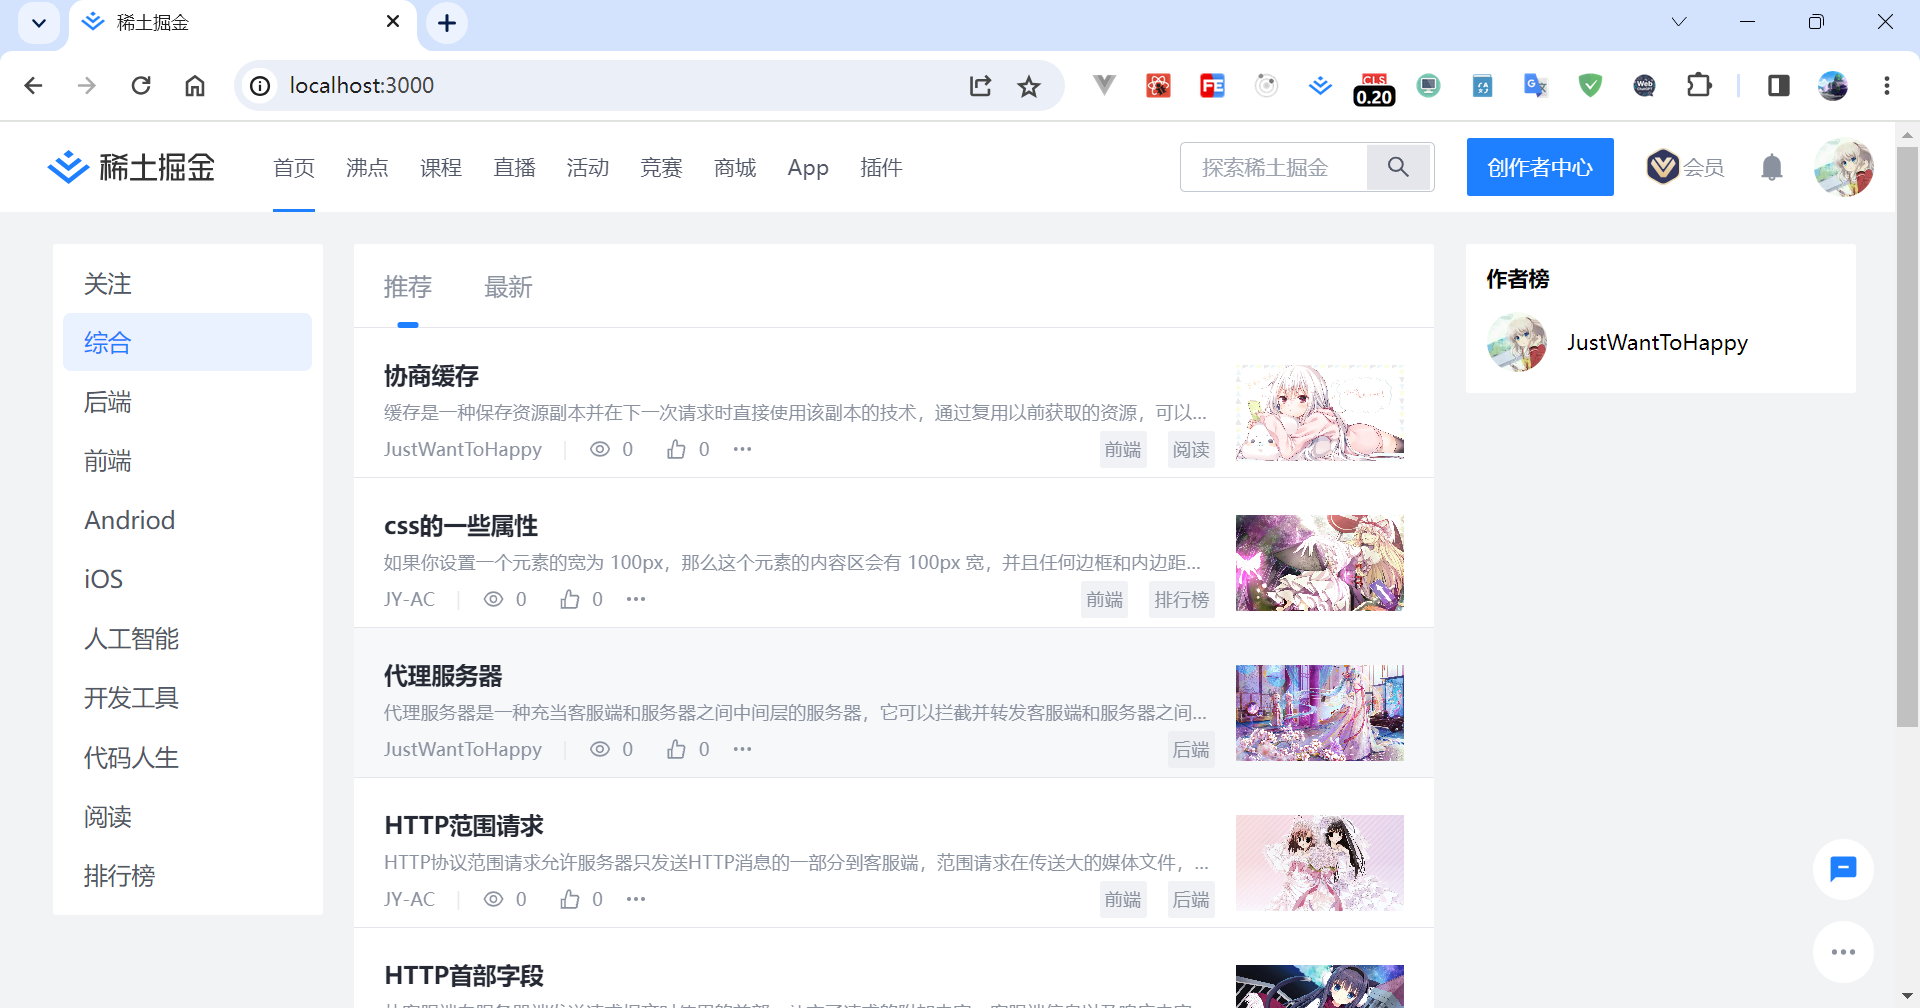
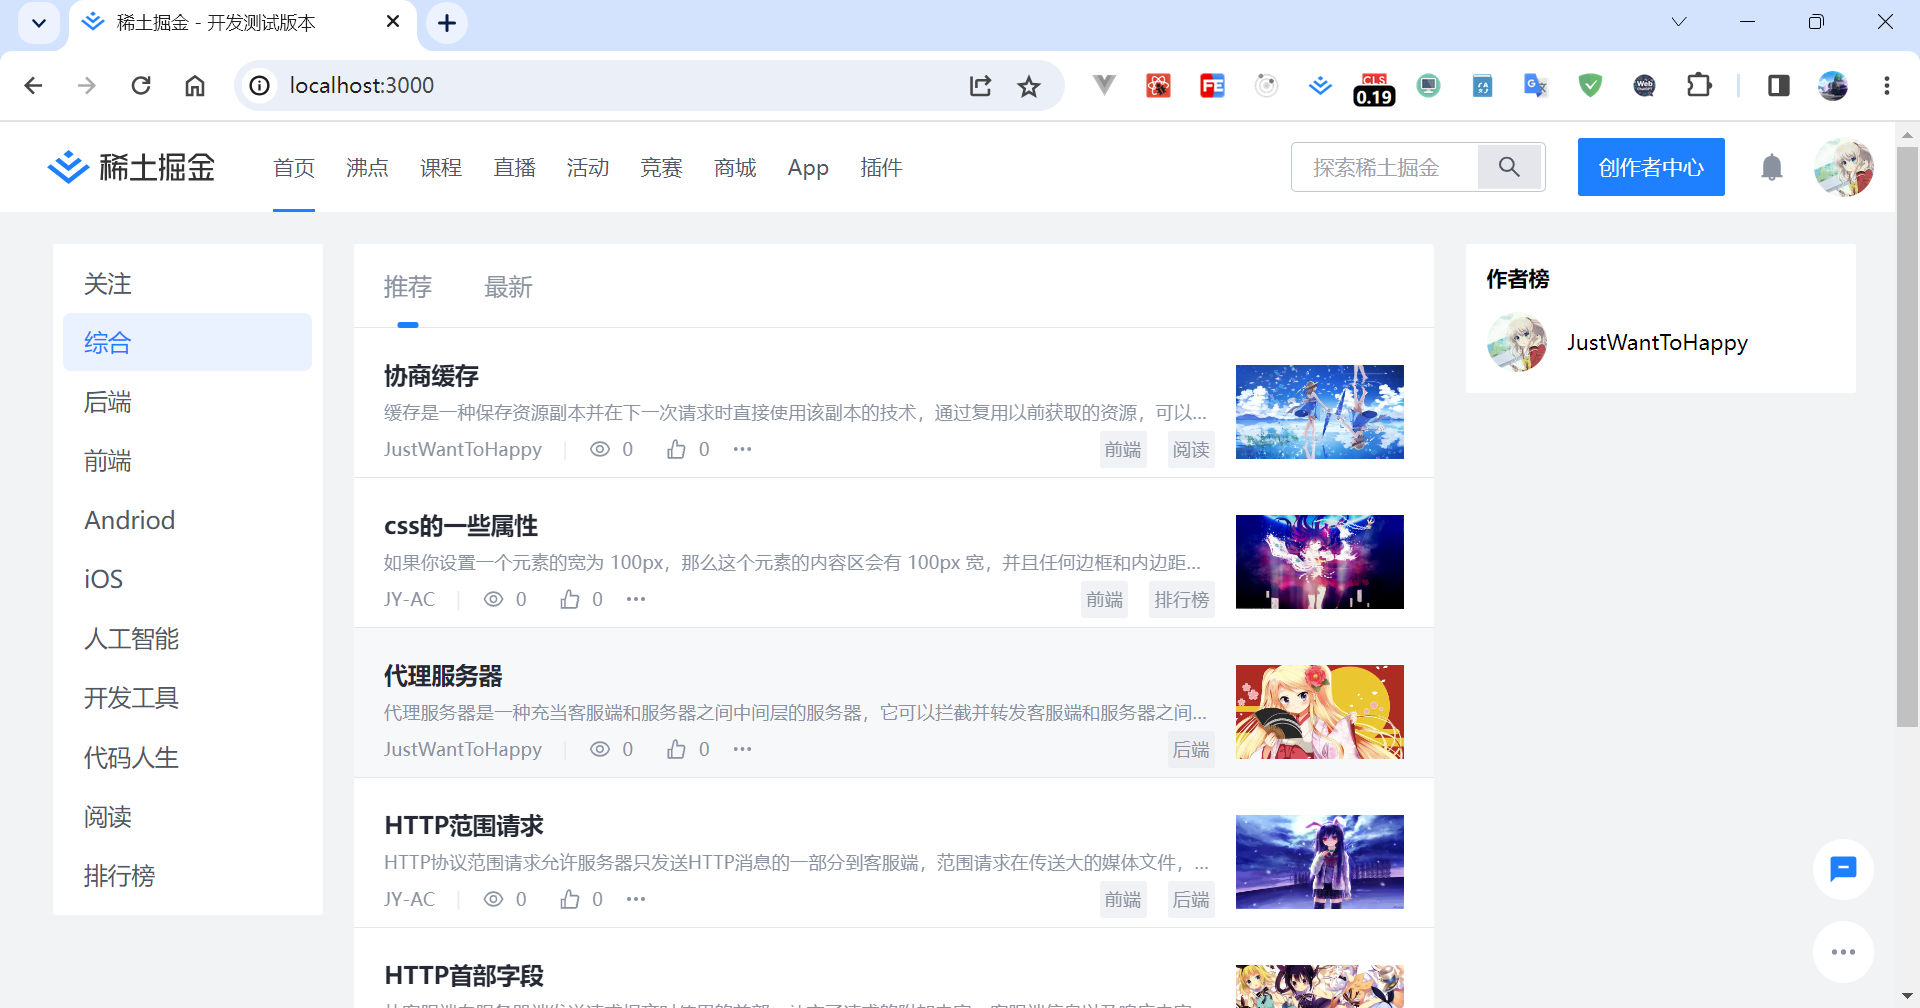
fix 修复一些意外

diff --git a/src/components/Article.tsx b/src/components/Article.tsx
@@ -4,15 +4,15 @@ import dayjs from 'dayjs'
 import { AiOutlineEye } from 'react-icons/ai'
 import type { CatelogueType } from '@/types'
 import { generateCatelogue, isHeadingEle } from '@/utils'
-import type { Article as ArticleType } from 'prisma/prisma-client'
+import type { Article as ArticleType, User } from 'prisma/prisma-client'
 
-type Props = ArticleType & {
+type Props = ArticleType & { user: User | null } & {
   getCatelogue: (catelogue: CatelogueType[], container: HTMLDivElement) => void
 }
 
-const Article: React.FC<Props> = ({ title, createdAt, content, getCatelogue }) => {
+const Article: React.FC<Props> = ({ title, createdAt, content, getCatelogue, readCount, user }) => {
   const markdownRef = React.useRef<HTMLDivElement>(null)
-
+  const dataStr = dayjs(createdAt).format('YYYY MM-DD HH:mm:ss')
   React.useEffect(() => {
     if (markdownRef.current) {
       const catelogue: CatelogueType[] = []
@@ -39,12 +39,14 @@ const Article: React.FC<Props> = ({ title, createdAt, content, getCatelogue }) =
           {title}
         </h1>
         <div className='flex  gap-x-4 text-juejin-font-3 items-center'>
-          <Link href='/' className='text-juejin-font-2 hover:text-juejin-brand-2-hover'>JustWantToHappy</Link>
-          <time dateTime='2023-08-19T02:08:29.000Z' title='2023-08-19T02:08:29.000Z'>
-            2023-08-19 10:08
+          <Link href='/' className='text-juejin-font-2 hover:text-juejin-brand-2-hover'>
+            {user?.name}
+          </Link>
+          <time dateTime={dataStr} title={dataStr}>
+            {dataStr}
           </time>
           <AiOutlineEye />
-          <span>22353</span>
+          <span>{readCount}</span>
           <div className='hidden md:flex '>
             <small>&emsp;|&emsp;</small>
             <span className='hidden md:inline'>

diff --git a/src/components/Header.tsx b/src/components/Header.tsx
@@ -6,7 +6,6 @@ import useSwr, { Fetcher } from 'swr'
 import { Get } from '@/utils'
 import { useRouter } from 'next/router'
 import InputSearch from './InputSearch'
-import VipSvg from '@/assets/img/vip.svg'
 import { useSession, signOut } from 'next-auth/react'
 import JuejinSvg from '../../public/juejin.svg'
 import { headerStore, loginModal } from '@/store'
@@ -14,7 +13,7 @@ import JuejinSmallSvg from '../../public/juejin-small.svg'
 import { AiFillCaretDown, AiFillBell } from 'react-icons/ai'
 
 const Header = () => {
-  const { data: session, status, update } = useSession()
+  const { data: session } = useSession()
   const header = headerStore()
   const router = useRouter()
   const { onOpen } = loginModal()
@@ -72,7 +71,14 @@ const Header = () => {
     if (isSignOut) signOut()
   }
 
-  
+  const write = () => {
+    if (!session) {
+      onOpen()
+      return
+    }
+    router.push('/editor')
+  }
+
   return (
     <header
       style={{ top: `${header.close ? '-60px' : '0px'}` }}
@@ -111,14 +117,10 @@ const Header = () => {
               <li className='flex overflow-hidden gap-x-6 items-center '>
                 <InputSearch />
                 <button
-                  onClick={() => router.push('/editor')}
+                  onClick={write}
                   className='btn-primary hidden sm:block'>
                   创作者中心
                 </button>
-              </li>
-              <li className='hidden md:flex items-center text-juejin-font-3 ml-6 '>
-                <Image src={VipSvg} alt='vip' title='juejin-vip' />
-                <span>会员</span>
               </li>
               <li className='ml-6 hidden sm:block group relative'>
                 {!session ? <button

diff --git a/src/pages/index.tsx b/src/pages/index.tsx
@@ -7,6 +7,7 @@ import Entry from '@/components/Entry'
 import type { Fetcher } from 'swr'
 import useSWRInfinite from 'swr/infinite'
 import { GetServerSideProps } from 'next'
+import { loginModal } from '@/store'
 import VirtualList from '@/components/VirtualList'
 import HomeLayout from '@/components/layouts/HomeLayout'
 
@@ -41,6 +42,7 @@ const fetchEntries = (articles: ArticleType[]) => {
 
 const Home: React.FC<Props> = ({ total, articles }) => {
   const router = useRouter()
+  const { onOpen } = loginModal()
   const [pageSize, setPageSize] = React.useState(10)
   const fetcher: Fetcher<Props> = (url: string) => Get<Props>(url)
   const { setSize, data, isLoading } = useSWRInfinite((index) => `/api/article?current=${index + 1}&pageSize=${pageSize}`, fetcher)
@@ -75,12 +77,18 @@ const Home: React.FC<Props> = ({ total, articles }) => {
     }
   }, [setSize, currentTotal, total])
 
+  React.useEffect(() => {
+    if (router.query.callbackUrl) {
+      onOpen()
+      router.push('/')
+    }
+  }, [router, onOpen])
 
   return (
     <HomeLayout>
       <div>
         <Head>
-          <title>稀土掘金</title>
+          <title>稀土掘金 - 开发测试版本</title>
         </Head>
         <div>
           <VirtualList components={listData} extraRenderCount={10} />

diff --git a/src/components/Entry.tsx b/src/components/Entry.tsx
@@ -33,7 +33,7 @@ const Entry: React.FC<EntryType> = ({ id, title, desc, readCount, author, image,
         </div>
         <div className='flex justify-between items-center'>
           <ul className='flex gap-x-4'>
-            <li>{author}</li>
+            <li className='ellipsis'>{author}</li>
             <li className=' font-thin text-juejin-gray-1-1'>|</li>
             <li className='flex items-center gap-x-2'>
               <AiOutlineEye className='text-lg' />
@@ -51,14 +51,14 @@ const Entry: React.FC<EntryType> = ({ id, title, desc, readCount, author, image,
             {tags.map(tag => <Link
               key={tag.key}
               href='/tag'
-              className='px-1 bg-juejin-gray-1-2 layer hover:text-juejin-brand-1-normal'>
+              className='px-1 bg-juejin-gray-1-2 layer hover:text-juejin-brand-1-normal ellipsis'>
               {tag.name}
             </Link>)}
           </div>
         </div>
       </div>
-      <div className='w-32 relative h-3/4 '>
-        <Image src={image} alt={title} fill style={{ objectFit: 'cover' }} priority />
+      <div className='w-32  relative h-3/4 overflow-hidden'>
+        <Image src={image} alt={title} width={200} height={100} />
       </div>
     </li>
   )

diff --git a/src/pages/post/[id].tsx b/src/pages/post/[id].tsx
@@ -11,10 +11,10 @@ import { useSession } from 'next-auth/react'
 import type { CatelogueType } from '@/types'
 import { TimerRefContext } from '@/context'
 import { useDebouce, useThrottle } from '@/hooks'
-import { Article as ArticleType } from 'prisma/prisma-client'
 import ArticleLayout from '@/components/layouts/ArticleLayout'
 import type { GetStaticProps, GetStaticPaths } from 'next'
 import { isHeadingEle, getElementTopOffset } from '@/utils'
+import { Article as ArticleType, User } from 'prisma/prisma-client'
 
 export const getStaticPaths: GetStaticPaths = async () => {
   const res = await fetch(`${process.env.API_URL}/api/article`)
@@ -37,7 +37,7 @@ type Position = {
   offsetTop: number
 }
 
-const Post = (props: ArticleType) => {
+const Post = (props: ArticleType & { user: User | null }) => {
   const { data: session } = useSession()
   const { close } = headerStore()
   const router = useRouter()

diff --git a/src/pages/api/article/[id].ts b/src/pages/api/article/[id].ts
@@ -1,5 +1,4 @@
 import { prisma } from '@/lib/prismadb'
-import {middleware} from '@/middleware'
 import { Method} from '@/constants'
 import type { NextApiRequest, NextApiResponse } from 'next'
 
@@ -13,8 +12,8 @@ export const config = {
 
 export default async function handler (req:NextApiRequest,res:NextApiResponse) {
   if (req.method === Method.GET) {
-    const id = (req.query.id??'0') as string
-    const article=await prisma.article.findFirst({where:{id}})
+    const id = (req.query.id ?? '0') as string
+    const article=await prisma.article.findFirst({where:{id},include:{user:true}})
     res.status(200).json(article)
   }
 }

diff --git a/src/pages/api/comment/index.ts b/src/pages/api/comment/index.ts
@@ -1,8 +1,13 @@
 import { prisma } from '@/lib/prismadb'
-import { Method} from '@/constants'
+import { Method } from '@/constants'
+import {isProtectedApi } from '@/utils'
+import { getServerSession } from 'next-auth/next'
+import { authOptions } from '@/pages/api/auth/[...nextauth]'
 import type { NextApiRequest, NextApiResponse } from 'next'
 
 export default async function handler (req:NextApiRequest,res:NextApiResponse) {
+  const session = await getServerSession(req, res, authOptions)
+
   if (req.method === Method.POST) {
     const body=req.body
     const comment=await prisma.comment.create({data:req.body})

diff --git a/src/utils/server.ts b/src/utils/server.ts
@@ -1,0 +1,8 @@
+import {Method } from '@/constants'
+
+export const isProtectedApi = (method:Method=Method.GET,...expectedMethods:Method[]) => {
+  const {POST,DELETE,PUT }=Method
+  const proctedMethods=[POST, DELETE, PUT].filter(method=>!expectedMethods.includes(method))
+  if (proctedMethods.includes(method)) return true
+  return false
+}

diff --git a/next.config.js b/next.config.js
@@ -49,10 +49,6 @@ const nextConfig = {
   images: {
     remotePatterns: [
       {
-        protocol: 'http',
-        hostname: 'rzl96k3z6.hn-bkt.clouddn.com',
-      },
-      {
         protocol: 'https',
         hostname: 'avatars.githubusercontent.com'
       },

diff --git a/src/middleware.ts b/src/middleware.ts
@@ -1,5 +1,5 @@
-import { NextResponse} from 'next/server'
-import type {NextRequest} from 'next/server'
+export { default} from 'next-auth/middleware'
 
-export function middleware(request: NextRequest) {
+export const config = {
+  matcher:['/editor']
 }

diff --git a/src/pages/api/auth/[...nextauth].ts b/src/pages/api/auth/[...nextauth].ts
@@ -25,6 +25,9 @@ export const authOptions: NextAuthOptions = {
       return session      
     }
   },
+  pages: {
+    signIn:'/'
+  }
 }
 
 export default NextAuth(authOptions)

diff --git a/src/constants/server.ts b/src/constants/server.ts
@@ -1,4 +1,6 @@
 export enum Method{
   GET = 'GET',
-  POST='POST'
+  POST = 'POST',
+  PUT = 'PUT',
+  DELETE='DELETE'
 }
